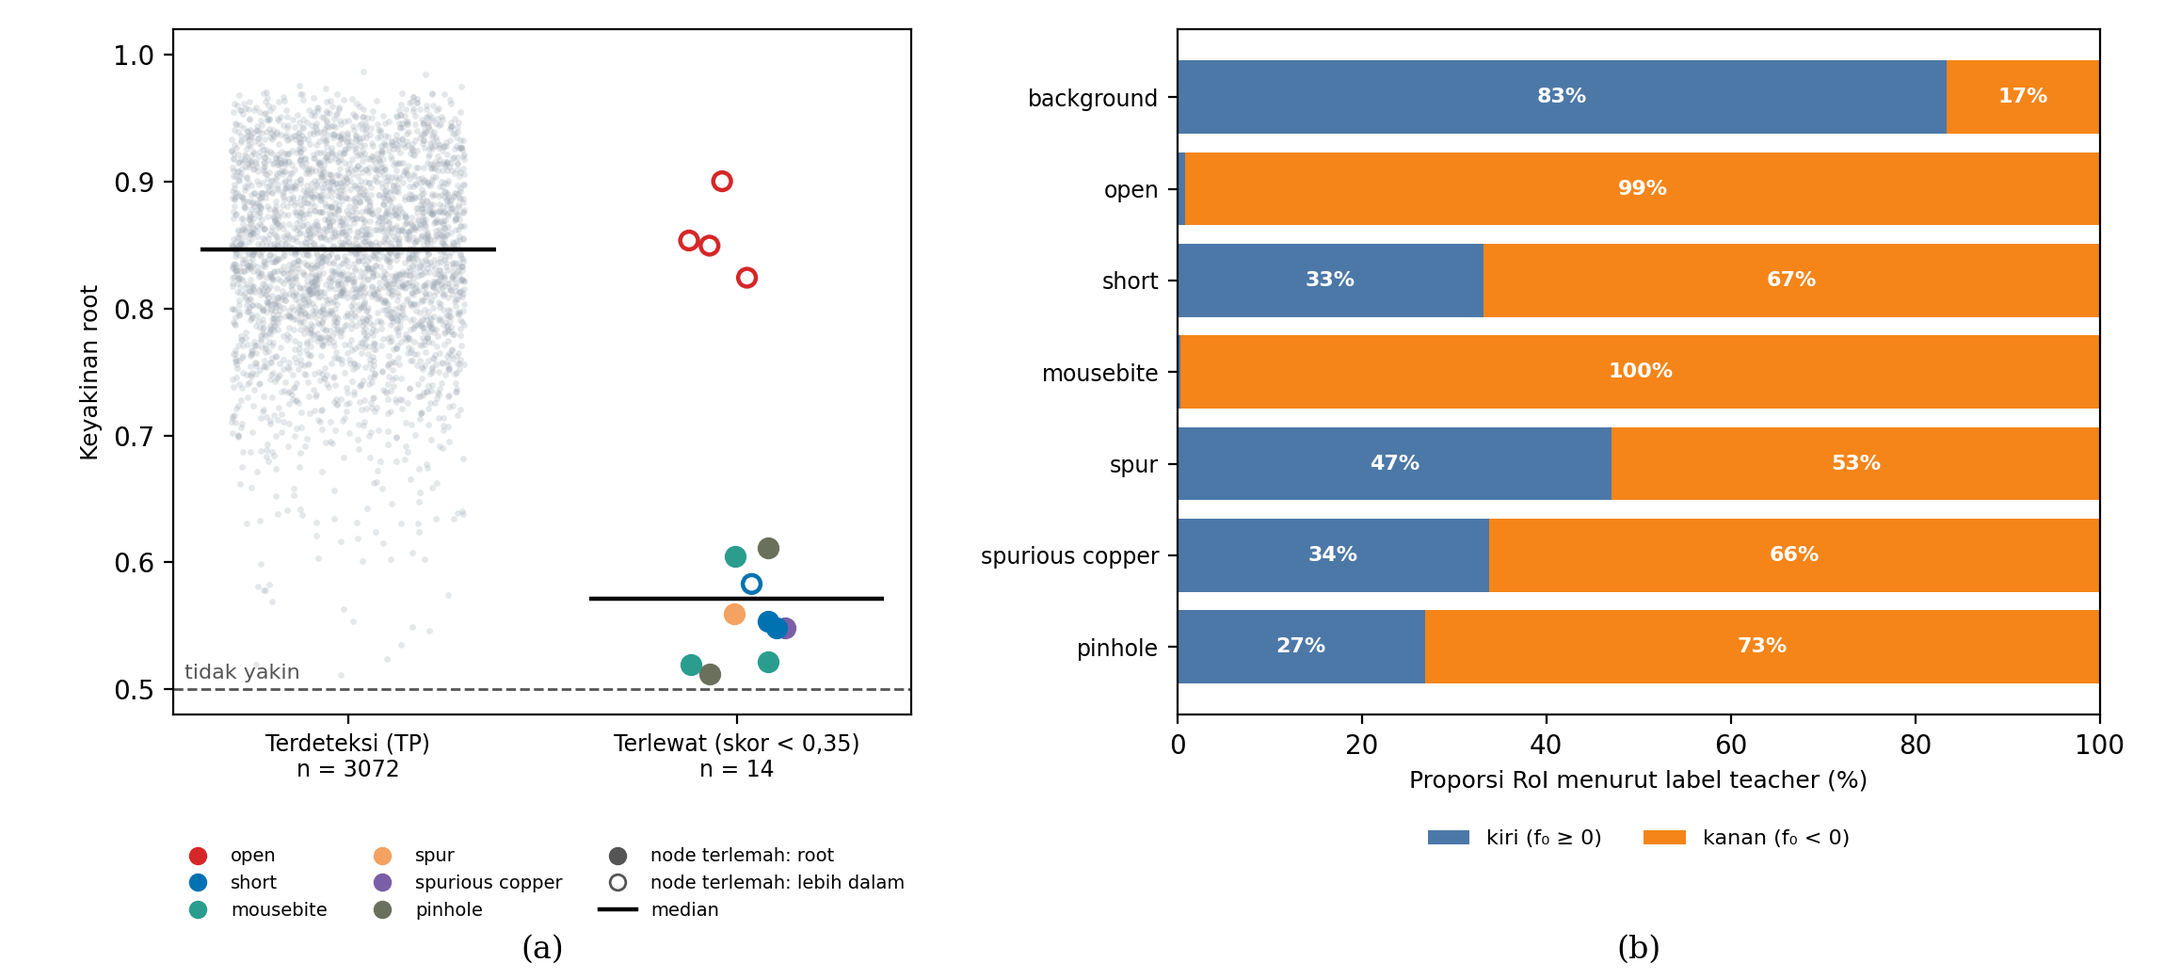
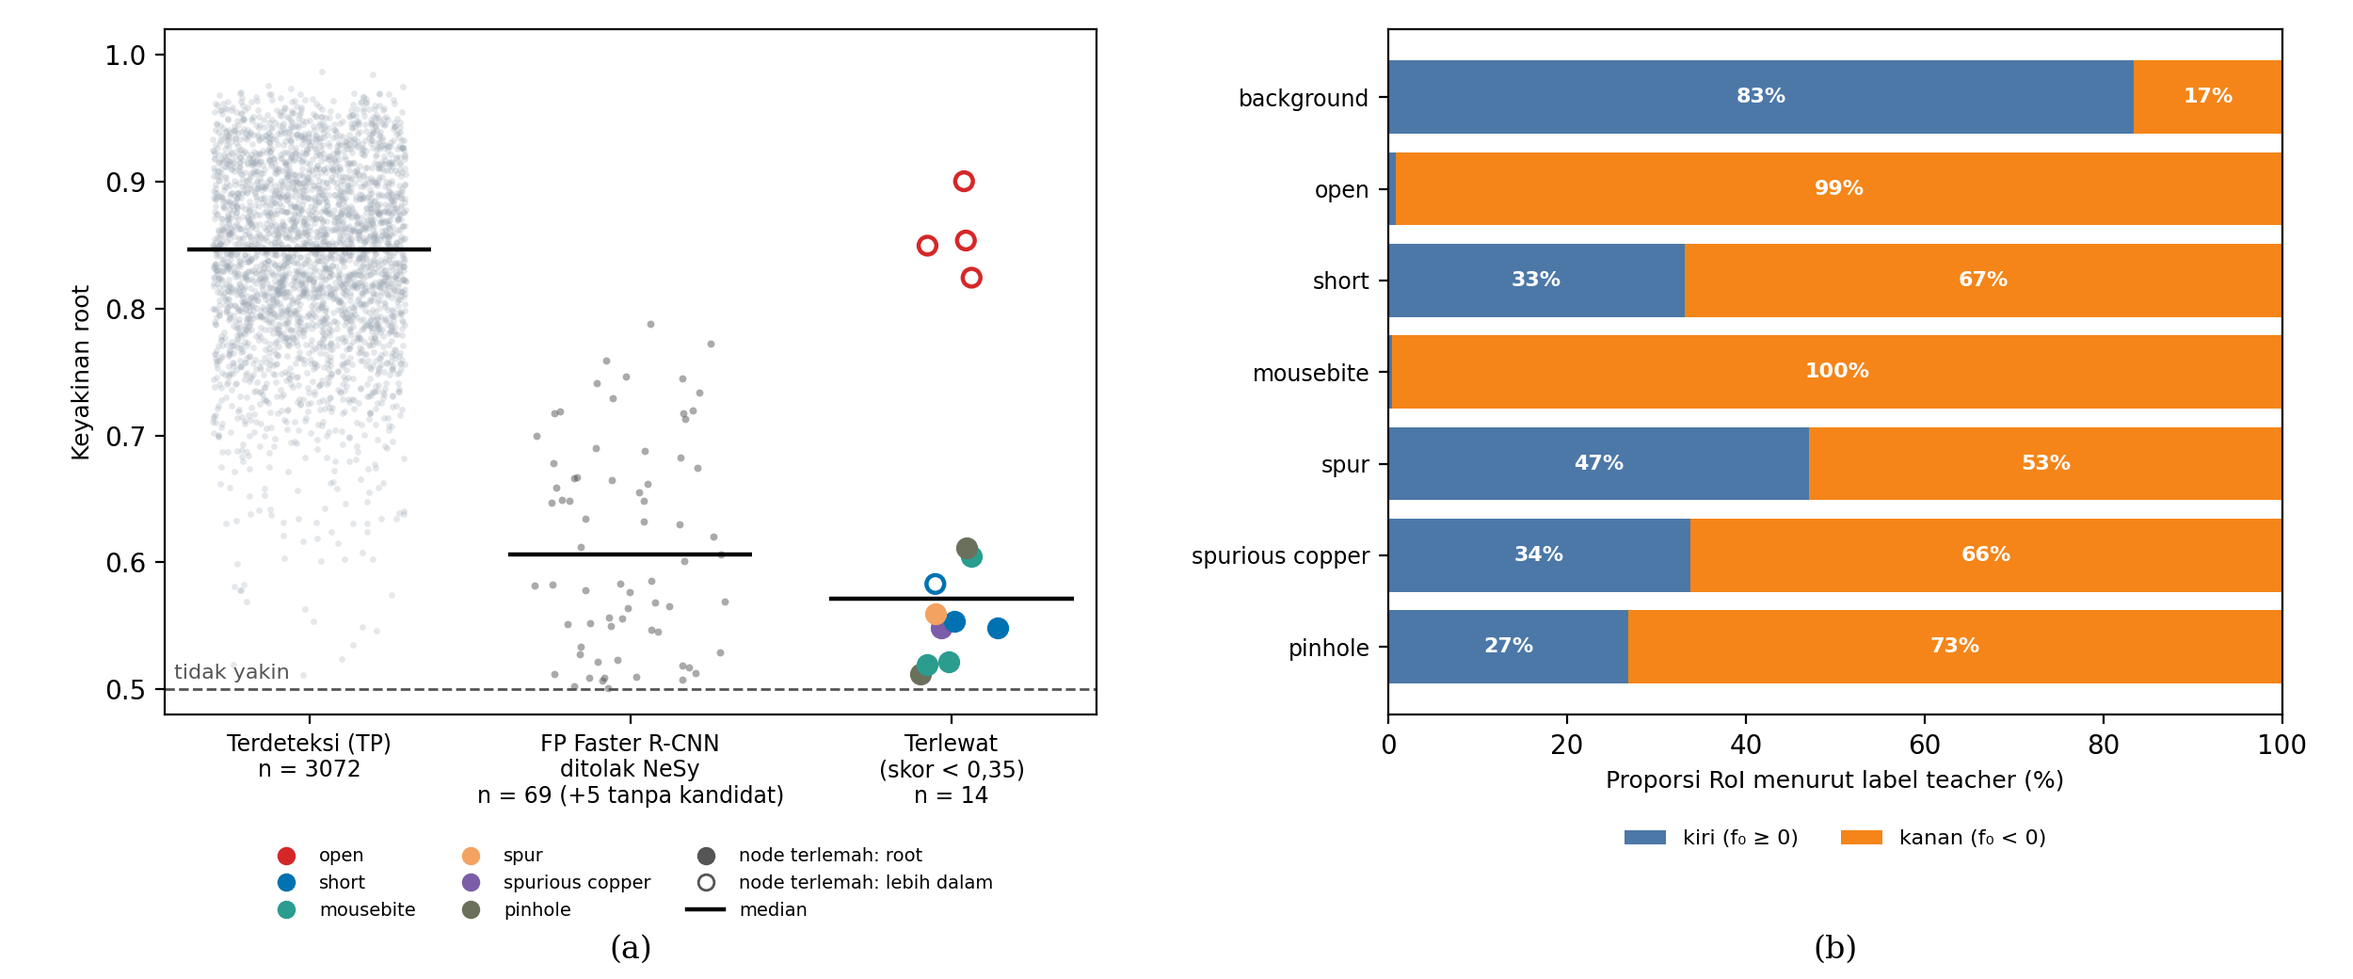
Explain both sides of 4.6.2 with root confidence
Gambar 4.13 (a) adds Faster R-CNN background false positives rejected by
NeSy; 4.6.2 now opens with the shared cause, uses the direct count (74)
instead of 65, and scopes the closing claim, noting new wrong-class false
positives come from deeper nodes.

diff --git a/papers/make_figures_bab4.py b/papers/make_figures_bab4.py
@@ -39,6 +39,7 @@ OUT = ROOT / "papers" / "figures_bab4_v2"
 CACHE = OUT / "_cache_detections.pt"
 ROOT_CACHE = OUT / "_cache_root_split.pt"
 FRCNN_THR, NESY_THR, IOU_THR = 0.5, 0.35, 0.5
+BACKGROUND_IOU = 0.1  # an FP under this IoU with every ground truth is "background" (neurosym.evaluation.breakdown_false_positives)
 CLASSES = ("open", "short", "mouse_bite", "spur", "spurious_copper", "pinhole")
 MODELS = ("frcnn", "nesy", "nomargin")
 THRESHOLD = {"frcnn": FRCNN_THR, "nesy": NESY_THR, "nomargin": NESY_THR}
@@ -394,7 +395,8 @@ def root_split_counts(hybrid, dataset, device) -> np.ndarray:
 
 
 def root_confidence(records: list[dict], tree) -> dict[str, object]:
-    """Root σ (Persamaan 3.3) of NeSy's true positives and of the detections lost to a score under the cutoff."""
+    """Root σ (Persamaan 3.3) of NeSy's true positives, of Faster R-CNN's background false positives NeSy rejects
+    (`rejected_none` of them have no NeSy candidate at all), and of the detections lost to a score under the cutoff."""
     tp = np.array([float(np.exp(r["nesy"]["log_certainties"][d["row"], 0]))
                    for r in records
                    for d in match(r["nesy"], r["gt_boxes"], r["gt_labels"], NESY_THR)[0] if d["status"] == "TP"])
@@ -404,28 +406,48 @@ def root_confidence(records: list[dict], tree) -> dict[str, object]:
     rows = [dict(label=m["label"], sigma=float(np.exp(m["log_certainties"][0])), root=int(np.argmin(m["log_certainties"])) == 0)
             for m in misses]
     assert len(rows) == 14 and sum(m["root"] for m in rows) == 9, "Subbab 4.6.2: 14 score misses, root weakest in 9"
-    return {"tp": tp, "misses": rows}
+    # Faster R-CNN's background false positives (Tabel 4.10 rule) that NeSy rejects: no same-class NeSy output at the cutoff covers them.
+    rejected, rejected_none = [], 0
+    for r in records:
+        n = r["nesy"]
+        fired = n["scores"] >= NESY_THR
+        for d in match(r["frcnn"], r["gt_boxes"], r["gt_labels"], FRCNN_THR)[0]:
+            if d["status"] != "FP" or (r["gt_boxes"].shape[0] and float(box_iou(d["box"][None], r["gt_boxes"]).max()) >= BACKGROUND_IOU):
+                continue
+            if best_overlap(n["boxes"][fired], n["scores"][fired], n["labels"][fired], d["box"], d["label"]) is not None:
+                continue
+            j = best_overlap(n["boxes"], n["scores"], n["labels"], d["box"], d["label"])
+            if j is None:
+                rejected_none += 1
+            else:
+                rejected.append(dict(sigma=float(np.exp(n["log_certainties"][j, 0])), root=int(np.argmin(n["log_certainties"][j])) == 0))
+    return {"tp": tp, "misses": rows, "rejected": rejected, "rejected_none": rejected_none}
 
 
 def root_figure(confidence: dict[str, object], counts: np.ndarray) -> None:
-    """Gambar 4.13: (a) root σ of detected vs missed defects, (b) share of RoIs N0 sends left / right per class."""
-    tp, misses = confidence["tp"], confidence["misses"]
+    """Gambar 4.13: (a) root σ of detected defects, rejected Faster R-CNN false positives and missed defects,
+    (b) share of RoIs N0 sends left / right per class."""
+    tp, misses, rejected = confidence["tp"], confidence["misses"], np.array([m["sigma"] for m in confidence["rejected"]])
     names = ["background", "open", "short", "mousebite", "spur", "spurious copper", "pinhole"]
-    fig, (ax_a, ax_b) = plt.subplots(1, 2, figsize=(11.5, 5.2), dpi=200, gridspec_kw=dict(width_ratios=(1, 1.25), wspace=0.32))
-    fig.subplots_adjust(left=0.08, right=0.97, top=0.97, bottom=0.27)
+    fig, (ax_a, ax_b) = plt.subplots(1, 2, figsize=(12.5, 5.2), dpi=200, gridspec_kw=dict(width_ratios=(1.25, 1.2), wspace=0.32))
+    fig.subplots_adjust(left=0.07, right=0.97, top=0.97, bottom=0.27)
 
     rng = np.random.default_rng(0)
     ax_a.scatter(rng.uniform(-0.3, 0.3, tp.size), tp, s=6, color="#9aa5b1", alpha=0.25, linewidths=0, rasterized=True)
+    ax_a.scatter(1 + rng.uniform(-0.3, 0.3, rejected.size), rejected, s=8, color="#444444", alpha=0.45, linewidths=0, zorder=2)
     for m in misses:
         color = CLASS_COLORS[m["label"] - 1]
-        ax_a.scatter(1 + rng.uniform(-0.15, 0.15), m["sigma"], s=46, facecolors=color if m["root"] else "none", edgecolors=color, linewidths=1.6, zorder=3)
-    for x, values in ((0, tp), (1, np.array([m["sigma"] for m in misses]))):
+        ax_a.scatter(2 + rng.uniform(-0.15, 0.15), m["sigma"], s=46, facecolors=color if m["root"] else "none", edgecolors=color, linewidths=1.6, zorder=3)
+    for x, values in ((0, tp), (1, rejected), (2, np.array([m["sigma"] for m in misses]))):
         ax_a.hlines(np.median(values), x - 0.38, x + 0.38, color="black", linewidth=1.6, zorder=4)
     ax_a.axhline(0.5, color="#555555", linestyle="--", linewidth=1)
     ax_a.text(-0.42, 0.505, "tidak yakin", fontsize=8, color="#555555", ha="left", va="bottom")
-    ax_a.set_xlim(-0.45, 1.45)
+    ax_a.set_xlim(-0.45, 2.45)
     ax_a.set_ylim(0.48, 1.02)
-    ax_a.set_xticks([0, 1], [f"Terdeteksi (TP)\nn = {tp.size}", f"Terlewat (skor < {fmt_threshold(NESY_THR)})\nn = {len(misses)}"], fontsize=8.5)
+    none = confidence["rejected_none"]
+    ax_a.set_xticks([0, 1, 2], [f"Terdeteksi (TP)\nn = {tp.size}",
+                                f"FP Faster R-CNN\nditolak NeSy\nn = {rejected.size}" + (f" (+{none} tanpa kandidat)" if none else ""),
+                                f"Terlewat\n(skor < {fmt_threshold(NESY_THR)})\nn = {len(misses)}"], fontsize=8.5)
     ax_a.set_ylabel("Keyakinan root", fontsize=9)
     handles = [plt.Line2D([], [], marker="o", linestyle="", markerfacecolor=CLASS_COLORS[c], markeredgecolor=CLASS_COLORS[c], markersize=6, label=names[c + 1])
                for c in range(len(CLASSES)) if any(m["label"] == c + 1 for m in misses)]
@@ -459,6 +481,11 @@ def root_figure(confidence: dict[str, object], counts: np.ndarray) -> None:
           f"14 misses {np.median(sigma):.3f} (min {sigma.min():.3f}, max {sigma.max():.3f}); "
           f"9 root {np.median(at_root):.3f} (max {at_root.max():.3f}); 5 deeper {np.median(deeper):.3f} (min {deeper.min():.3f}); "
           f"TP with σ <= max root case: {(tp <= at_root.max()).sum()} of {tp.size}")
+    in_root = sum(m["root"] for m in confidence["rejected"])
+    print(f"rejected Faster R-CNN background FPs: {rejected.size} with a NeSy candidate + {none} without; "
+          f"root σ median {np.median(rejected):.3f} (IQR {np.percentile(rejected, 25):.3f}-{np.percentile(rejected, 75):.3f}), "
+          f"{(rejected < 0.65).sum()} below 0.65, root weakest in {in_root}; "
+          f"TP below 0.65: {(tp < 0.65).sum()} of {tp.size}")
     print("N0 left share % by teacher label:", {n: round(float(s), 1) for n, s in zip(names, share[:, 0])}, "counts", counts.tolist())
 
 

diff --git a/papers/Draft-Laporan_Handi_v2.md b/papers/Draft-Laporan_Handi_v2.md
@@ -284,7 +284,7 @@ Gambar 4.11 *False positive Faster* R-CNN yang ditolak NeSy
 
 Gambar 4.12 Cacat yang terdeteksi *Faster* R-CNN tetapi terlewat NeSy
 
-Gambar 4.13 Keyakinan *root* pada cacat terdeteksi dan terlewat NeSy: (a) keyakinan *root* dan (b) arah *root* per kelas
+Gambar 4.13 Keyakinan *root* pada deteksi benar, *false positive* yang ditolak, dan cacat terlewat NeSy: (a) keyakinan *root* dan (b) arah *root* per kelas
 
 Gambar 4.14 *Confusion Matrix Neuro-Symbolic* (ambang 0,35): (a) tanpa *Routing Margin* dan (b) dengan *Routing Margin*
 
@@ -1486,7 +1486,7 @@ Pada PCB 1 sampai PCB 3, kedua model menemukan seluruh cacat dengan kelas yang b
 
 ### 4.6.2 Mengapa *Precision* Naik dan *Recall* Turun
 
-Perubahan *precision* dan *recall* pada Tabel 4.8 berasal dari jenis kesalahan yang berubah. Kesalahan *false positive* diklasifikasikan sebagai duplikat, salah kelas, salah lokalisasi, atau *background* (tidak menutupi cacat mana pun), dan hasilnya ditunjukkan pada Tabel 4.10.
+Perubahan *precision* dan *recall* pada Tabel 4.8 terutama berasal dari satu perilaku NeSy, yaitu skor yang rendah pada RoI yang berada dekat batas keputusan pohon. Pada ambang 0,35, perilaku ini menolak *background* yang ambigu sehingga *false positive* berkurang (*precision* naik), dan menolak pula cacat yang ambigu sehingga cacat terlewat bertambah (*recall* turun). Kedua sisi tersebut diperiksa mulai dari jenis kesalahan yang berubah. Kesalahan *false positive* diklasifikasikan sebagai duplikat, salah kelas, salah lokalisasi, atau *background* (tidak menutupi cacat mana pun), dan hasilnya ditunjukkan pada Tabel 4.10.
 
 **Tabel 4.10 Jenis *False Positive* pada Data Uji**
 
@@ -1495,7 +1495,7 @@ Perubahan *precision* dan *recall* pada Tabel 4.8 berasal dari jenis kesalahan y
 | *Faster* R-CNN (ambang 0,5) | 260 | 33 | 35 | 3 | 331 |
 | *Neuro-Symbolic* (ambang 0,35) | **215** | 49 | **27** | 7 | **298** |
 
-Dari 260 *false positive* *background* *Faster* R-CNN, 65 hilang pada NeSy dan hanya 20 *background* baru yang muncul, sehingga *background* turun dari 260 menjadi 215 dan total *false positive* dari 331 menjadi 298. Sebaliknya, salah kelas naik dari 33 menjadi 49 karena SODT lebih sering memilih kelas yang keliru pada RoI yang ambigu, dan duplikat naik dari 3 menjadi 7. Penurunan *false positive* memperkecil penyebut *precision*. Di sisi lain, cacat yang terlewat bertambah dari 38 menjadi 47 seperti ditunjukkan pada Tabel 4.11.
+Dari 260 *false positive* *background* *Faster* R-CNN, 74 tidak lagi terdeteksi oleh NeSy pada ambang 0,35 (tidak ada deteksi NeSy sekelas yang menutupinya), sehingga *background* turun dari 260 menjadi 215 dan total *false positive* dari 331 menjadi 298. Sebaliknya, salah kelas naik dari 33 menjadi 49 karena SODT lebih sering memilih kelas yang keliru pada RoI yang ambigu, dan duplikat naik dari 3 menjadi 7. Penurunan *false positive* memperkecil penyebut *precision*. Di sisi lain, cacat yang terlewat bertambah dari 38 menjadi 47 seperti ditunjukkan pada Tabel 4.11.
 
 **Tabel 4.11 Cacat Terlewat (*False Negative*) per Kelas**
 
@@ -1504,9 +1504,9 @@ Dari 260 *false positive* *background* *Faster* R-CNN, 65 hilang pada NeSy dan h
 | *Faster* R-CNN (ambang 0,5) | **8** | **13** | **6** | **6** | **3** | **2** | **38** |
 | *Neuro-Symbolic* (ambang 0,35) | 8 | 16 | 8 | 8 | 4 | 3 | 47 |
 
-Dari cacat yang berhasil dideteksi *Faster* R-CNN, 15 hilang pada NeSy. Sebanyak 14 di antaranya terjadi karena skor NeSy berada di bawah ambang 0,35 dan hanya satu karena kelas yang salah. Penyebab skor rendah adalah *node* terlemah pada *decision path*, yaitu *node* dengan faktor σ terkecil pada Persamaan 3.3, yang berupa *root* (N0) pada 9 dari 14 kasus. Kehilangan terbanyak terjadi pada *open* dan *mousebite* (masing-masing 4), diikuti *short* (3), *pinhole* (2), serta *spur* dan *spurious copper* (masing-masing 1). Dengan kata lain, NeSy menolak deteksi yang keputusan pertamanya (*root*) kurang yakin, baik untuk *background* maupun untuk cacat yang tampak samar. Alasan *root* kurang yakin pada cacat tersebut diuji pada Gambar 4.13 di akhir subbab ini.
+Dari cacat yang berhasil dideteksi *Faster* R-CNN, 15 hilang pada NeSy. Sebanyak 14 di antaranya terjadi karena skor NeSy berada di bawah ambang 0,35 dan hanya satu karena kelas yang salah. Penyebab skor rendah adalah *node* terlemah pada *decision path*, yaitu *node* dengan faktor σ terkecil pada Persamaan 3.3, yang berupa *root* (N0) pada 9 dari 14 kasus. Kehilangan terbanyak terjadi pada *open* dan *mousebite* (masing-masing 4), diikuti *short* (3), *pinhole* (2), serta *spur* dan *spurious copper* (masing-masing 1).
 
-Kedua arah perubahan tersebut dibuktikan pada Gambar 4.11 dan Gambar 4.12. Setiap baris memuat satu contoh dengan tiga kolom, yaitu citra PCB utuh dengan satu kotak penanda lokasi, potongan yang diperbesar berisi hasil *Faster* R-CNN, dan potongan yang sama berisi hasil NeSy. Gambar 4.11 memperlihatkan *false positive* *Faster* R-CNN pada area tanpa cacat yang ditolak NeSy. Kotak merah pada citra PCB menandai lokasinya, kotak merah pada potongan adalah deteksi *Faster* R-CNN, dan kotak biru putus-putus adalah kandidat NeSy yang skornya berada di bawah ambang.
+Kedua sisi perilaku tersebut ditunjukkan pada Gambar 4.11 dan Gambar 4.12. Setiap baris memuat satu contoh dengan tiga kolom, yaitu citra PCB utuh dengan satu kotak penanda lokasi, potongan yang diperbesar berisi hasil *Faster* R-CNN, dan potongan yang sama berisi hasil NeSy. Gambar 4.11 memperlihatkan *false positive* *Faster* R-CNN pada area tanpa cacat yang ditolak NeSy. Kotak merah pada citra PCB menandai lokasinya, kotak merah pada potongan adalah deteksi *Faster* R-CNN, dan kotak biru putus-putus adalah kandidat NeSy yang skornya berada di bawah ambang.
 
 ![Gambar 4.11](figures_bab4_v2/fig_fp_ditolak.png)
 
@@ -1522,13 +1522,13 @@ Gambar 4.12 memperlihatkan arah sebaliknya, yaitu cacat yang terdeteksi *Faster*
 
 Pada Gambar 4.12, keempat cacat nyata (*short*, *mousebite*, *open*, dan *pinhole*) memiliki skor NeSy 0,23 hingga 0,32, dengan tiga di antaranya ditolak pada *root* dan satu pada N59. Kotak NeSy hampir sama dengan kotak *Faster* R-CNN dan *ground truth*. Dengan demikian NeSy tidak salah menemukan lokasi, melainkan kurang yakin terhadap kelasnya. Cacat pada PCB 4 adalah *short* yang terlewat pada Gambar 4.10.
 
-Penyebab *root* kurang yakin diuji pada Gambar 4.13. Keyakinan *root* adalah faktor σ milik *root* pada Persamaan 3.3, bernilai 0,5 bila *root* sama sekali tidak yakin dan mendekati 1 bila sangat yakin. Panel (a) membandingkan keyakinan *root* pada 3.072 deteksi benar NeSy dengan 14 cacat yang ditolak karena skornya di bawah ambang 0,35, dan panel (b) menunjukkan ke arah mana *root* mengirim RoI dari setiap kelas menurut label *teacher*.
+Penyebab skor rendah tersebut diuji pada Gambar 4.13. Keyakinan *root* adalah faktor σ milik *root* pada Persamaan 3.3, bernilai 0,5 bila *root* sama sekali tidak yakin dan mendekati 1 bila sangat yakin. Panel (a) membandingkan keyakinan *root* pada 3.072 deteksi benar NeSy, pada 69 *false positive* *background* *Faster* R-CNN yang ditolak NeSy dengan kandidat berskor di bawah ambang (5 lainnya tidak memiliki kandidat NeSy sama sekali), dan pada 14 cacat yang ditolak karena skornya di bawah ambang 0,35. Panel (b) menunjukkan ke arah mana *root* mengirim RoI dari setiap kelas menurut label *teacher*.
 
 ![Gambar 4.13](figures_bab4_v2/fig_root_keyakinan.png)
 
-**Gambar 4.13 Keyakinan *root* pada cacat terdeteksi dan terlewat NeSy: (a) keyakinan *root* dan (b) arah *root* per kelas**
+**Gambar 4.13 Keyakinan *root* pada deteksi benar, *false positive* yang ditolak, dan cacat terlewat NeSy: (a) keyakinan *root* dan (b) arah *root* per kelas**
 
-Pada Gambar 4.13 (a), deteksi benar memiliki median keyakinan *root* 0,85, sedangkan 9 cacat yang ditolak di *root* bermedian 0,55 dan tidak ada yang melebihi 0,61. Hanya 20 dari 3.072 deteksi benar (0,65%) yang serendah itu, sehingga keyakinan *root* yang rendah memang khas untuk cacat yang terlewat. Pada panel (b), *root* mengirim sebagian besar *background* (83%) ke kiri dan sebagian besar cacat ke kanan, dari 53% pada *spur* hingga 100% pada *mousebite*. Keyakinan *root* yang mendekati 0,5 berarti RoI berada dekat batas antara kedua sisi tersebut, sehingga keputusan pertama NeSy goyah dan skor akhirnya turun di bawah ambang. Lima kasus sisanya (titik berongga) tidak lemah di *root* karena keyakinannya setara deteksi benar (median 0,85), tetapi ditolak pada *node* yang lebih dalam dengan mekanisme yang sama, yaitu RoI berada dekat batas keputusan *node* yang mereka pisahkan. Dengan demikian cacat yang terlewat berasal dari RoI yang dekat batas keputusan pohon, bukan dari kesalahan menemukan lokasi.
+Pada Gambar 4.13 (a), deteksi benar memiliki median keyakinan *root* 0,85 dan hanya 45 dari 3.072 (1,5%) yang berada di bawah 0,65. *False positive* *background* yang ditolak bermedian 0,61 dengan 44 dari 69 di bawah 0,65, sedangkan 9 cacat yang ditolak di *root* bermedian 0,55 dan tidak ada yang melebihi 0,61. Dengan demikian RoI yang ditolak, baik *background* maupun cacat, sama-sama memiliki keyakinan *root* yang rendah, yang jarang dimiliki deteksi benar. Pada panel (b), *root* mengirim sebagian besar *background* (83%) ke kiri dan sebagian besar cacat ke kanan, dari 53% pada *spur* hingga 100% pada *mousebite*. Keyakinan *root* yang mendekati 0,5 berarti RoI berada dekat batas antara kedua sisi tersebut, sehingga keputusan pertama NeSy goyah dan skor akhirnya turun di bawah ambang. *Root* menjadi *node* terlemah pada 39 dari 69 *false positive* yang ditolak dan pada 9 dari 14 cacat yang terlewat. Sisanya (30 *false positive* dan 5 cacat, yang terakhir ditandai titik berongga pada panel (a)) tidak paling lemah di *root*, tetapi ditolak pada *node* yang lebih dalam dengan mekanisme yang sama, yaitu RoI berada dekat batas keputusan *node* yang mereka pisahkan. Mekanisme ini tidak berlaku untuk salah kelas yang bertambah pada Tabel 4.10. Pada 22 *false positive* salah kelas yang tidak dibuat *Faster* R-CNN, keyakinan *root* bermedian 0,87 dan *root* hanya menjadi *node* terlemah pada 6 kasus, sehingga kesalahan kelas tersebut berasal dari *node* yang lebih dalam, bukan dari *root* yang ragu. Dengan demikian, *background* yang ditolak dan cacat yang terlewat dijelaskan oleh sebab yang sama: RoI yang dekat batas keputusan pohon mendapat skor rendah, sehingga *background* yang ambigu ditolak (*precision* naik) dan cacat yang ambigu ikut ditolak (*recall* turun), bukan karena NeSy salah menemukan lokasi.
 
 ### 4.6.3 *Routing Margin* (Kontribusi 2)
 
@@ -1612,7 +1612,7 @@ Dengan demikian, penjelasan SODT memungkinkan pembaca mengikuti keputusan satu d
 
 ## 5.1 Kesimpulan
 
-Penelitian ini mengintegrasikan *Faster* R-CNN dengan SODT sebagai arsitektur *neuro-symbolic* untuk deteksi cacat PCB pada *dataset* DeepPCB. *Faster* R-CNN yang menjadi *teacher* setara dengan Fung et al. (2024), dengan AP@50:5:85 sebesar 93,03 terhadap 93,2. SODT yang menggantikan *classification head* mempertahankan akurasi tersebut, dengan mAP@0,5 sebesar 0,982 terhadap 0,987 dan mAP@0,5:0,95 sebesar 0,787 terhadap 0,797. Pada ambang skor masing-masing, *precision* naik dari 0,903 menjadi 0,912 dan F1 dari 0,941 menjadi 0,944, sedangkan *recall* turun dari 0,983 menjadi 0,978. Selisih ini kecil sehingga NeSy dibaca setara dengan *Faster* R-CNN, bukan lebih baik. Perubahan ini terjadi karena NeSy menolak 65 *false positive* *background* milik *Faster* R-CNN, tetapi kehilangan 15 cacat yang dideteksi *Faster* R-CNN, hampir seluruhnya karena skor di bawah ambang pada keputusan di *root*.
+Penelitian ini mengintegrasikan *Faster* R-CNN dengan SODT sebagai arsitektur *neuro-symbolic* untuk deteksi cacat PCB pada *dataset* DeepPCB. *Faster* R-CNN yang menjadi *teacher* setara dengan Fung et al. (2024), dengan AP@50:5:85 sebesar 93,03 terhadap 93,2. SODT yang menggantikan *classification head* mempertahankan akurasi tersebut, dengan mAP@0,5 sebesar 0,982 terhadap 0,987 dan mAP@0,5:0,95 sebesar 0,787 terhadap 0,797. Pada ambang skor masing-masing, *precision* naik dari 0,903 menjadi 0,912 dan F1 dari 0,941 menjadi 0,944, sedangkan *recall* turun dari 0,983 menjadi 0,978. Selisih ini kecil sehingga NeSy dibaca setara dengan *Faster* R-CNN, bukan lebih baik. Perubahan ini terjadi karena NeSy memberi skor rendah pada RoI yang dekat batas keputusan pohon, sehingga 74 *false positive* *background* milik *Faster* R-CNN ditolak, tetapi 15 cacat yang dideteksi *Faster* R-CNN ikut hilang, hampir seluruhnya karena skor di bawah ambang.
 
 Tiga kontribusi mendukung hasil tersebut. Pertama, *class weighting* menyempitkan rentang *agreement* antarkelas dari 3,7 menjadi 2,1 poin dan menaikkan *agreement* kelas *short* sebesar 3,1 poin, dengan biaya 0,3 poin *mimic accuracy*. Pengaruh ini belum terlihat pada kinerja deteksi, yang tidak berubah tanpa *class weighting*. Kedua, skor deteksi berbasis *routing margin* memberi urutan skor yang dibutuhkan *Soft*-NMS dan AP, sehingga mAP@0,5:0,95 naik dari 0,644 menjadi 0,787 dan *false positive* turun dari 1.036 menjadi 298. Ketiga, *heatmap* per *node* menghasilkan *explanation* yang *faithful*. Terhadap *random control*-nya sendiri, peta SODT mengubah label pada 96,1% deteksi dibandingkan 59,1% untuk petak acak, sedangkan Grad-CAM pada petak yang dibatasi proposal hanya 68,7% dibandingkan 60,3%. Waktu per citra untuk deteksi beserta *explanation* juga lebih singkat, yaitu 67,5 ms terhadap 94,7 ms. *Explanation* tidak hanya berupa satu peta, tetapi *heatmap* pada setiap *node* di *decision path* sehingga keputusan dapat ditelusuri langkah demi langkah dari *root* hingga *leaf*. Kedua tujuan penelitian, yaitu mempertahankan performa deteksi sekaligus menyediakan *explanation* yang *faithful* dan lebih baik daripada Grad-CAM, telah tercapai.
 
